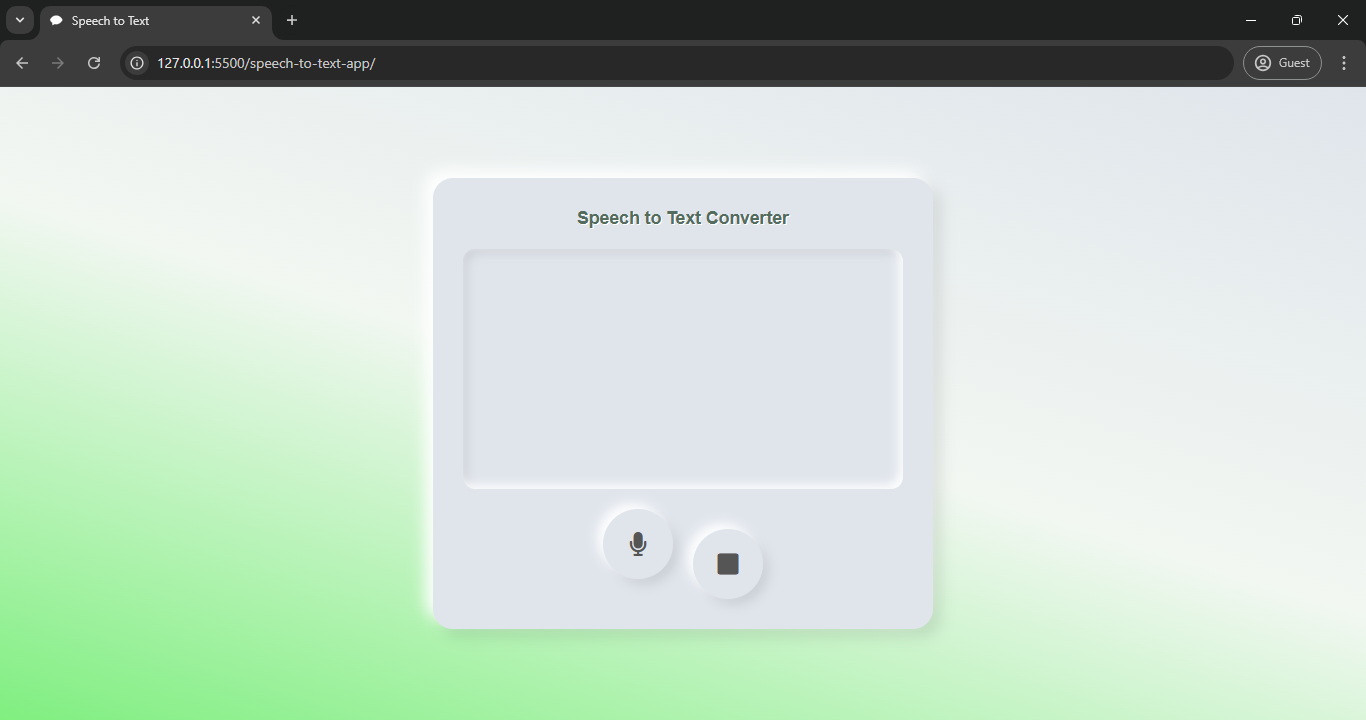
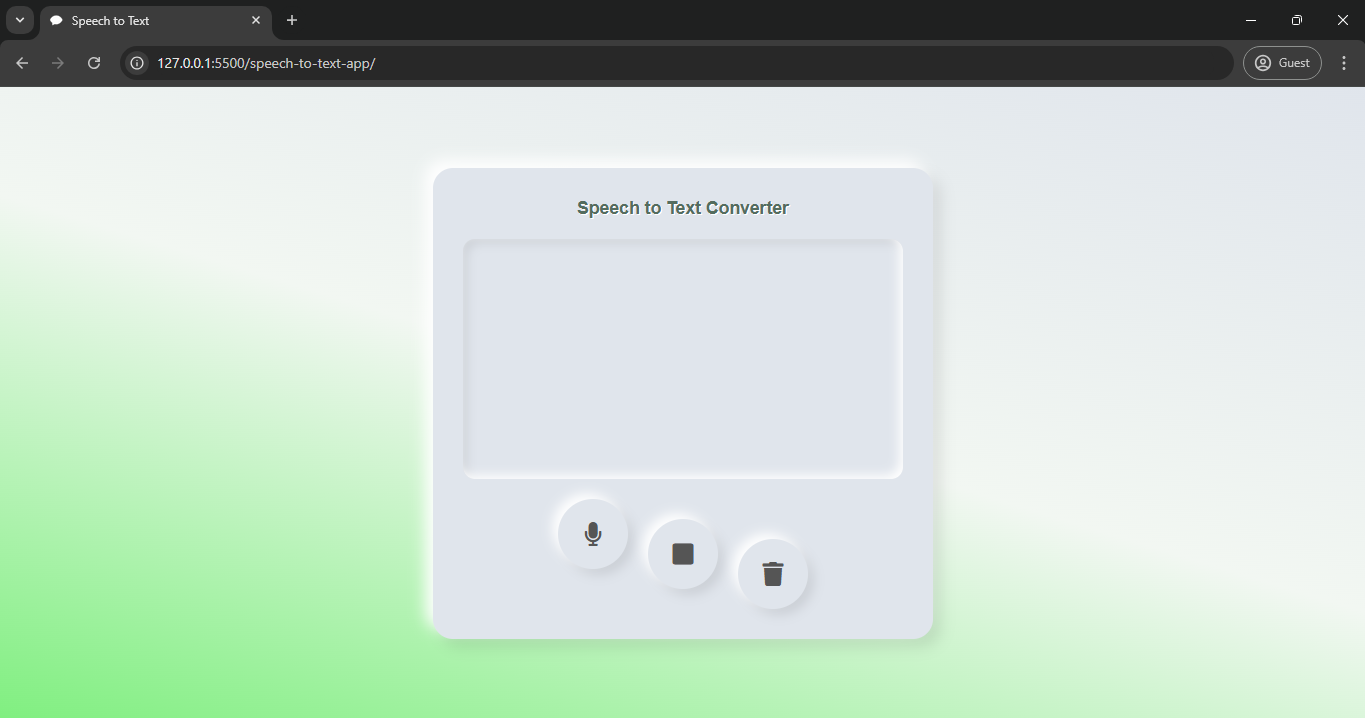
updated speech-to-text-app 🎙

diff --git a/speech-to-text-app/script.js b/speech-to-text-app/script.js
@@ -1,6 +1,7 @@
-let recognition; 
+let recognition;
 let isListening = false;
 let lastProcessedIndex = 0;
+let finalTranscript = '';
 
 function startConverting() {
     if (!('webkitSpeechRecognition' in window)) {
@@ -8,77 +9,85 @@ function startConverting() {
         return;
     }
 
-    recognition = new webkitSpeechRecognition();
-    recognition.continuous = true;
-    recognition.interimResults = true;
+    if (!isListening) {
+        recognition = new webkitSpeechRecognition();
+        recognition.continuous = true;
+        recognition.interimResults = true;
 
-    const resultBox = document.getElementById('result');
-    resultBox.innerHTML = ''; 
+        const resultBox = document.getElementById('result');
 
-    let finalTranscript = ''; 
+        recognition.start();
+        isListening = true;
 
-    recognition.start();
-    isListening = true;
+        const micButtonParent = document.querySelector('.fa-microphone').parentElement;
+        const stopButtonParent = document.querySelector('.fa-stop').parentElement;
+        const clearButton = document.getElementById('clearButton');
 
-    const micButtonParent = document.querySelector('.fa-microphone').parentElement;
-    const stopButtonParent = document.querySelector('.fa-stop').parentElement;
+        micButtonParent.classList.add('active-mic');
+        stopButtonParent.classList.remove('active-stop');
+        clearButton.disabled = true;  // Disable clear button while listening
 
-    micButtonParent.classList.add('active-mic'); 
-    stopButtonParent.classList.remove('active-stop'); 
+        recognition.onresult = function (event) {
+            let interimTranscript = '';
 
-    recognition.onresult = function (event) {
-        let interimTranscript = '';
-
-        for (let i = lastProcessedIndex; i < event.results.length; i++) {
-            const transcript = event.results[i][0].transcript;
-            if (event.results[i].isFinal) {
-                finalTranscript += formatSentence(transcript) + ' ';
-                lastProcessedIndex = i + 1; 
-            } else {
-                interimTranscript += transcript;
+            for (let i = lastProcessedIndex; i < event.results.length; i++) {
+                const transcript = event.results[i][0].transcript;
+                if (event.results[i].isFinal) {
+                    finalTranscript += formatSentence(transcript) + ' ';
+                    lastProcessedIndex = i + 1;
+                } else {
+                    interimTranscript += transcript;
+                }
             }
-        }
 
-        resultBox.innerText = finalTranscript + formatSentence(interimTranscript); 
-    };
+            resultBox.innerText = finalTranscript + formatSentence(interimTranscript);
+        };
 
-    recognition.onerror = function (event) {
-        console.error("Error:", event.error);
-        stopConverting(); 
-    };
+        recognition.onerror = function (event) {
+            console.error("Error:", event.error);
+        };
 
-    recognition.onend = function () {
-        if (isListening) {
-            console.log("Restarting speech recognition...");
-            recognition.start(); 
-        }
-    };
+        recognition.onend = function () {
+            if (isListening) {
+                recognition.start();  // Keep the recognition session running continuously
+            }
+        };
+    }
 }
 
 function stopConverting() {
     if (recognition && isListening) {
-        recognition.stop(); 
+        recognition.stop();
         isListening = false;
         lastProcessedIndex = 0;
-        console.log("Speech recognition stopped.");
 
         const micButtonParent = document.querySelector('.fa-microphone').parentElement;
         const stopButtonParent = document.querySelector('.fa-stop').parentElement;
+        const clearButton = document.getElementById('clearButton');
 
         micButtonParent.classList.remove('active-mic');
-        stopButtonParent.classList.add('active-stop'); 
+        stopButtonParent.classList.add('active-stop');
+        clearButton.disabled = false;  // Enable clear button once listening stops
+    }
+}
+
+function clearText() {
+    if (!isListening) {
+        const resultBox = document.getElementById('result');
+        resultBox.innerHTML = '';  // Clear text only when not listening
+        finalTranscript = '';  // Reset final transcript
     }
 }
 
 function formatSentence(text) {
     return text
-        .split(/([.!?]\s)/) 
+        .split(/([.!?]\s)/)
         .map(sentence => {
             let trimmed = sentence.trim();
             if (trimmed) {
                 trimmed = trimmed.charAt(0).toUpperCase() + trimmed.slice(1);
                 if (!/[.!?]$/.test(trimmed)) {
-                    trimmed += '.'; 
+                    trimmed += '.';
                 }
             }
             return trimmed;

diff --git a/speech-to-text-app/style.css b/speech-to-text-app/style.css
@@ -102,12 +102,20 @@ button:hover .fa-stop {
     color: #e66a76; 
 }
 
+button:hover .fa-trash {
+    color: #4f7af1; 
+}
+
 button.active-mic .fa-microphone {
     color: #80ef80; 
 }
 
 button.active-stop .fa-stop {
     color: #dc3545; 
+}
+
+button.active-stop .fa-trash {
+    color: #4f7af1; 
 }
 
 button:active {
@@ -119,4 +127,37 @@ button:active {
 
 i {
     pointer-events: none;
+}
+
+
+#result::-webkit-scrollbar {
+    width: 8px;
+    height: 8px;
+}
+
+#result::-webkit-scrollbar-thumb {
+    background: #ccc;
+    border-radius: 20px;
+    box-shadow: inset 2px 2px 4px rgba(255, 255, 255, 0.3), inset -2px -2px 4px rgba(0, 0, 0, 0.2);
+}
+
+#result::-webkit-scrollbar-thumb:hover {
+    background: #80ef80;
+    box-shadow: inset 2px 2px 4px rgba(255, 255, 255, 0.3), inset -2px -2px 4px rgba(0, 0, 0, 0.3);
+}
+
+#result::-webkit-scrollbar-track {
+    background: #E0E5EC;
+    border-radius: 20px;
+    box-shadow: inset -2px -2px 4px rgba(255, 255, 255, 0.5), inset 2px 2px 4px rgba(0, 0, 0, 0.1);
+}
+
+#result::-webkit-scrollbar-horizontal {
+    height: 8px;
+}
+
+#result::-webkit-scrollbar-thumb:horizontal {
+    background: #ccc;
+    border-radius: 20px;
+    box-shadow: inset 2px 2px 4px rgba(255, 255, 255, 0.3), inset -2px -2px 4px rgba(0, 0, 0, 0.2);
 }

diff --git a/speech-to-text-app/index.html b/speech-to-text-app/index.html
@@ -17,12 +17,17 @@
             <button onclick="startConverting()">
                 <i class="fa fa-microphone"></i>
             </button>
-
             <div class="button-container">
-                <button onclick="stopConverting()">
+
+            <button onclick="stopConverting()">
                     <i class="fa fa-stop"></i>
-                </button>       
-    </div>
+            </button>    
+            <div class="button-container">
+            <button id="clearButton" onclick="clearText()" disabled>
+                    <i class="fa fa-trash"></i>
+            </button>
+        </div>
+    </div>  
     <script src="script.js"></script>
 </body>
 </html>
